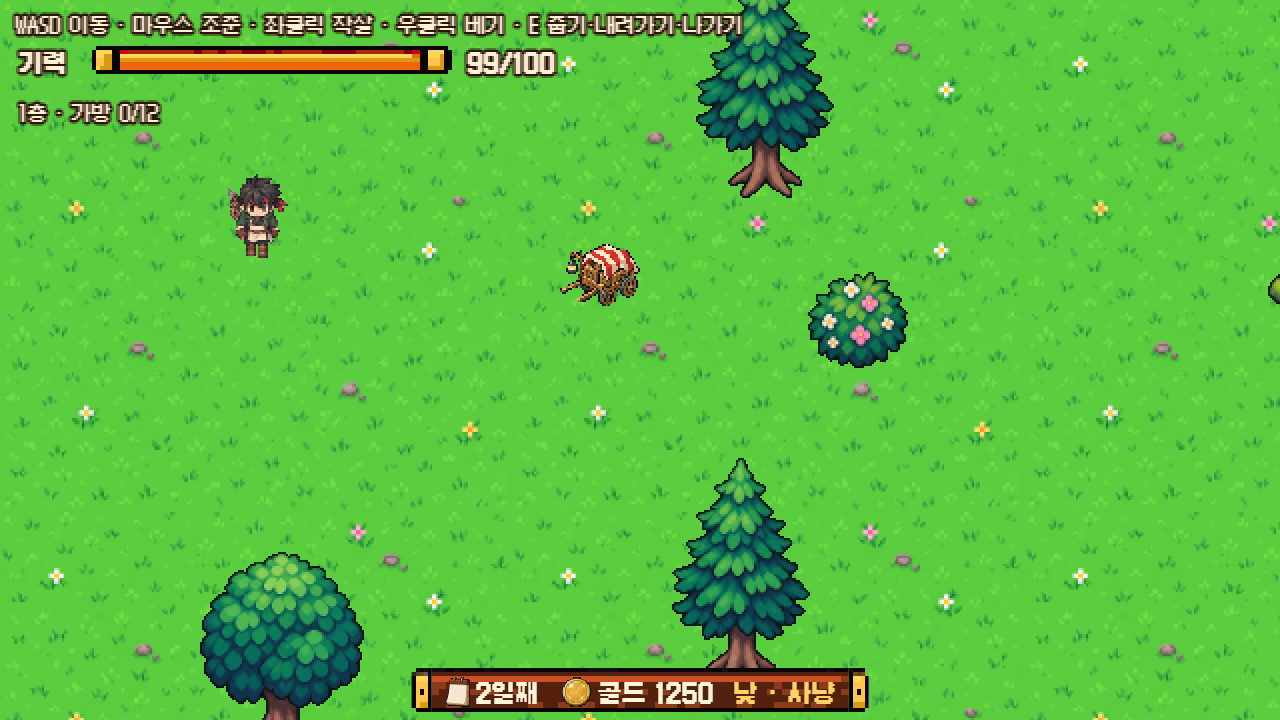
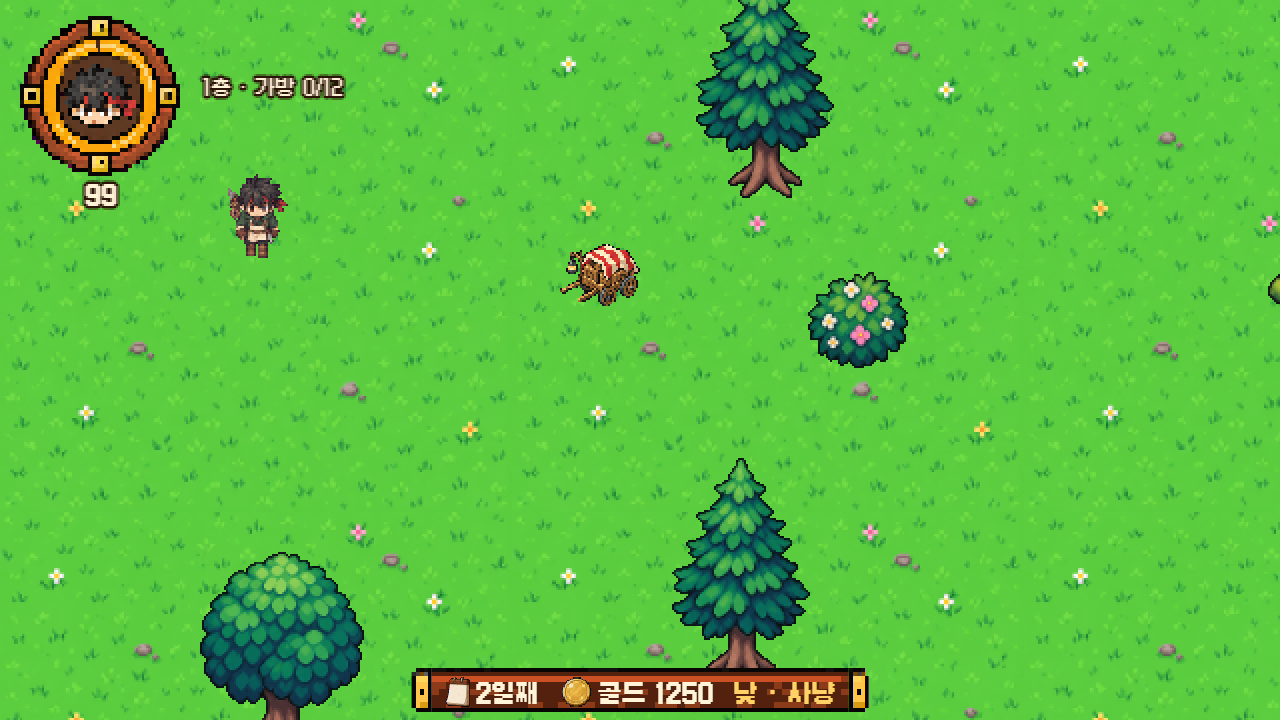
feat(hunt): Dave-style round stamina gauge (approved art): the ring empties clockwise, the face tires when stamina runs low

Changed region(s): [[0.0, 0.0, 0.5938, 0.3056]]

diff --git a/src/game/scenes/HuntScene.ts b/src/game/scenes/HuntScene.ts
@@ -21,7 +21,7 @@ import { GAME_HEIGHT, GAME_WIDTH } from "../config";
 import { createCharacterAnims, loadCharacterArt, lookOf, stepBob } from "../hunt/anims";
 import { angerFlock, CHAR_SCALE, createMob, dazeMob, drawMob, isMobVulnerable, mobFacing, mobPos, mobRadius, mobWasHit, setMobPos, stepMob, type Mob, type Spawn } from "../hunt/mobs";
 import { joystickVector } from "../joystick";
-import { addGauge, kitSlice, loadUiArt, TEXT, TEXT_SMALL, type UiGauge } from "../ui";
+import { KIT, kitSlice, loadUiArt, TEXT, TEXT_SMALL } from "../ui";
 
 // The forest hunt (plan 03), quarter view, Dave-the-Diver controls.
 // PC: WASD / arrows move, aim with the mouse, left click = harpoon, right click = slash, E = gather, go
@@ -36,8 +36,8 @@ const HUNTER_FEET = 0.92;
 const GATHER_RANGE = 26;
 // how close the hunter must stand to a cart or the way down to use it with E
 const USE_RANGE = 28;
-// the stamina gauge's width in game pixels
-const STAMINA_W = 180;
+// the round stamina gauge: its centre and radius in game pixels (40 art pixels across, drawn KIT times bigger)
+const RING = { x: 50, y: 48, r: 40 };
 const GATHER_MS = 1000;
 const REFILL_DELAY_MS = 2500;
 // Touch controls, in screen pixels of the game, placed relative to its size.
@@ -130,7 +130,11 @@ export class HuntScene extends Phaser.Scene {
   private slashArc: { at: Vec; aim: Vec; ms: number } | null = null;
   private hitStopMs = 0;
   private ended = false;
-  private hpGauge!: UiGauge;
+  // the round stamina gauge (Dave the Diver's oxygen, art approved 2026-10-15): the full ring shows only
+  // over the share that is left, through a pie mask; the face tires when stamina runs low
+  private ringMask!: Phaser.GameObjects.Graphics;
+  private face!: Phaser.GameObjects.Image;
+  private shownStamina = -1;
   private fx!: Phaser.GameObjects.Graphics;
   private bagText!: Phaser.GameObjects.Text;
   private gatherHint!: Phaser.GameObjects.Text;
@@ -193,6 +197,7 @@ export class HuntScene extends Phaser.Scene {
   preload() {
     this.load.image("grass", artUrl("test/bg/grass.png"));
     for (const k of Object.keys(OBJECT_KINDS)) this.load.image(`obj_${k}`, artUrl(`test/objects/${k}.png`));
+    for (const k of ["ring_empty", "ring_full", "face_fine", "face_tired"]) this.load.image(`stamina_${k}`, artUrl(`test/ui/stamina/${k}.png`));
     this.load.image("exit", artUrl("test/hunt/exit.png"));
     this.load.image("stairs", artUrl("test/hunt/stairs.png"));
     loadCharacterArt(this);
@@ -237,14 +242,17 @@ export class HuntScene extends Phaser.Scene {
 
     const hudStyle = TEXT_SMALL;
     // no key list on screen: the controls come with the tutorial (user, 2026-10-15)
-    // stamina big and plain at the top left — its name, a long brass gauge and what is left in numbers
-    // (user, 2026-10-15: it was hard to see) — the floor and the bag under it; no way home but the carts
-    const row = 30;
-    this.add.text(8, row, t("hunt.stamina"), { ...TEXT, fontStyle: "bold" }).setOrigin(0, 0.5).setScrollFactor(0).setDepth(10000);
-    this.hpGauge = addGauge(this, 46 + STAMINA_W / 2, row, STAMINA_W);
-    this.hpGauge.box.setScrollFactor(0).setDepth(10000);
-    this.staminaText = this.add.text(52 + STAMINA_W, row, "", { ...TEXT, fontStyle: "bold" }).setOrigin(0, 0.5).setScrollFactor(0).setDepth(10000);
-    this.bagText = this.add.text(8, row + 18, "", hudStyle).setScrollFactor(0).setDepth(10000);
+    // stamina in the round gauge at the top left with what is left under it (user, 2026-10-15: the bar was
+    // hard to see), the floor and the bag beside it; no way home but the carts
+    const hud = <T extends Phaser.GameObjects.Image | Phaser.GameObjects.Text>(o: T): T => o.setScrollFactor(0).setDepth(10000) as T;
+    hud(this.add.image(RING.x, RING.y, "stamina_ring_empty").setScale(KIT));
+    const full = hud(this.add.image(RING.x, RING.y, "stamina_ring_full").setScale(KIT));
+    this.ringMask = this.make.graphics({}, false).setScrollFactor(0);
+    full.setMask(this.ringMask.createGeometryMask());
+    this.face = hud(this.add.image(RING.x, RING.y, "stamina_face_fine").setScale(KIT));
+    this.staminaText = hud(this.add.text(RING.x, RING.y + RING.r + 8, "", { ...TEXT, fontStyle: "bold" }).setOrigin(0.5));
+    this.shownStamina = -1;
+    this.bagText = hud(this.add.text(RING.x + RING.r + 10, RING.y - 6, "", hudStyle).setOrigin(0, 0.5));
     this.gatherHint = this.add.text(0, 0, "", hudStyle).setOrigin(0.5).setDepth(9500).setVisible(false);
     // which way the nearest cart is, at the screen's edge when it is out of sight (or always, when the bag
     // is full or stamina runs low)
@@ -866,8 +874,14 @@ export class HuntScene extends Phaser.Scene {
 
   private drawHud() {
     const frac = this.run.stamina / this.maxStamina;
-    this.hpGauge.set(frac);
-    this.staminaText.setText(`${Math.ceil(this.run.stamina)}/${this.maxStamina}`).setColor(frac < LOW_STAMINA ? "#ff7070" : "#fff3d8");
+    const shown = Math.ceil(this.run.stamina);
+    if (shown !== this.shownStamina) {
+      this.shownStamina = shown;
+      // the ring that is left, clockwise from the top
+      this.ringMask.clear().fillStyle(0xffffff).slice(RING.x, RING.y, RING.r + 4, -Math.PI / 2, -Math.PI / 2 + Math.PI * 2 * Math.max(0.0001, frac), false).fillPath();
+      this.staminaText.setText(String(shown)).setColor(frac < LOW_STAMINA ? "#ff7070" : "#fff3d8");
+      this.face.setTexture(frac < LOW_STAMINA ? "stamina_face_tired" : "stamina_face_fine");
+    }
     this.bagText.setText(`${t("hunt.floorShort", { n: this.run.floor })} · ${t("hud.bag", { n: bagCount(this.run.bag), max: this.bagSlots })}`);
     const low = frac < LOW_STAMINA && !this.player.down;
     this.lowGlow.setVisible(low);

diff --git a/src/i18n/en.ts b/src/i18n/en.ts
@@ -13,7 +13,6 @@ export const en: Record<keyof typeof ko, string> = {
   "lunch.goHunt": "Afternoon hunt",
   "lunch.skip": "Rest this afternoon",
   "lunch.upgrades": "Upgrades",
-  "hunt.stamina": "Stamina",
   "hunt.useExit": "E Leave by Bandal's cart",
   "hunt.useDown": "E Go down",
   "hunt.useButton": "Use",

diff --git a/src/i18n/ko.ts b/src/i18n/ko.ts
@@ -12,7 +12,6 @@ export const ko = {
   "lunch.goHunt": "오후 사냥 나가기",
   "lunch.skip": "오후는 쉬기",
   "lunch.upgrades": "업그레이드",
-  "hunt.stamina": "기력",
   "hunt.useExit": "E 반달이 수레로 나가기",
   "hunt.useDown": "E 아래층으로",
   "hunt.useButton": "쓰기",
